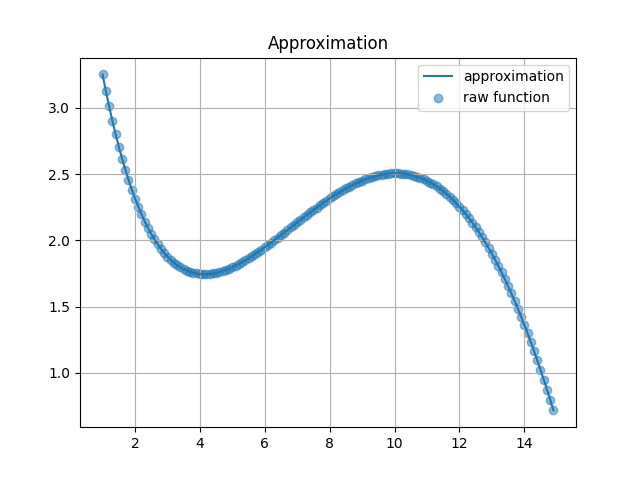
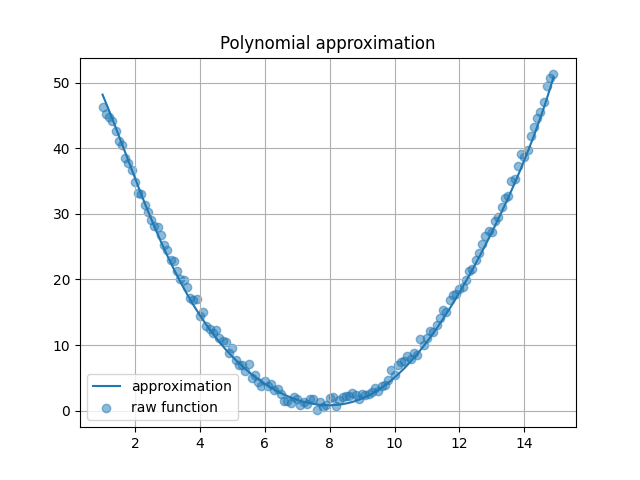
12/03/21

diff --git a/+MODULES+/+Matplotlib/example/Approximation.py b/+MODULES+/+Matplotlib/example/Approximation.py
@@ -5,7 +5,8 @@ import matplotlib.pylab as plt
 
 
 def func(x):
-    return sin(x / 5.) * exp(x / 10.) + 5 * exp(-x / 2.)
+    # return sin(x / 5.) * exp(x / 10.) + 5 * exp(-x / 2.)
+    return (x-7.8)**2 + 2*np.random.random(1)
 
 
 arr_cord = np.arange(1., 15., 0.1)
@@ -25,12 +26,12 @@ for i in range(N):
 
 arrB8 = np.array([func(coord) for coord in arr_cord8])
 
-print(f'arr_cord8: {arr_cord8}')
-print(f'arrA8: {arrA8}')
-print(f'arrB8: {arrB8}')
+print(f'\narr_cord8: {arr_cord8}')
+print(f'\narrA8: {arrA8}')
+print(f'\narrB8: {arrB8}')
 
 arrX8 = linalg.solve(arrA8, arrB8)
-print(f'arrX8: {arrX8}')
+print(f'\narrX8: {arrX8}')
 
 
 def func8(x):
@@ -43,7 +44,7 @@ arr_func8 = np.array([func8(coord) for coord in arr_cord])
 plt.plot(arr_cord, arr_func8, label='approximation')
 plt.scatter(arr_cord, arr_func, alpha=0.5, label='raw function')
 
-plt.title('Approximation')
+plt.title('Polynomial approximation')
 plt.grid()
 plt.legend()
 plt.savefig('approximation')
